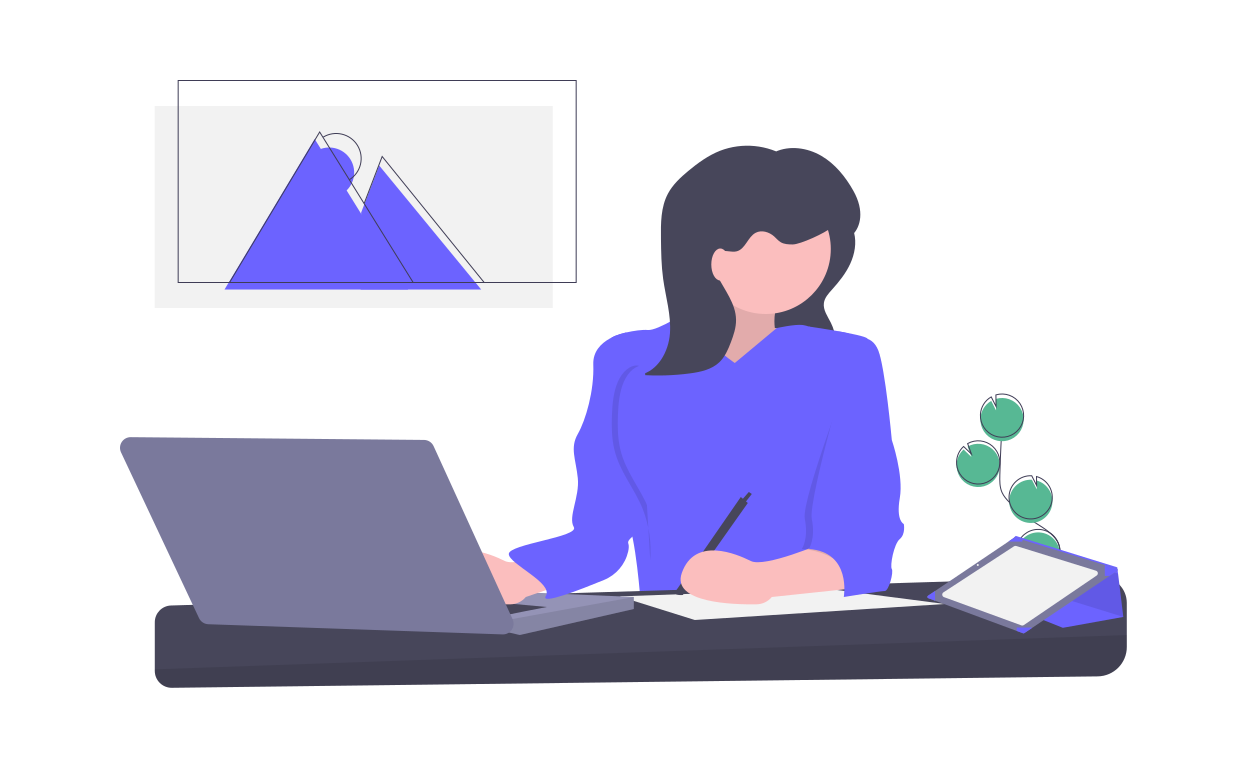
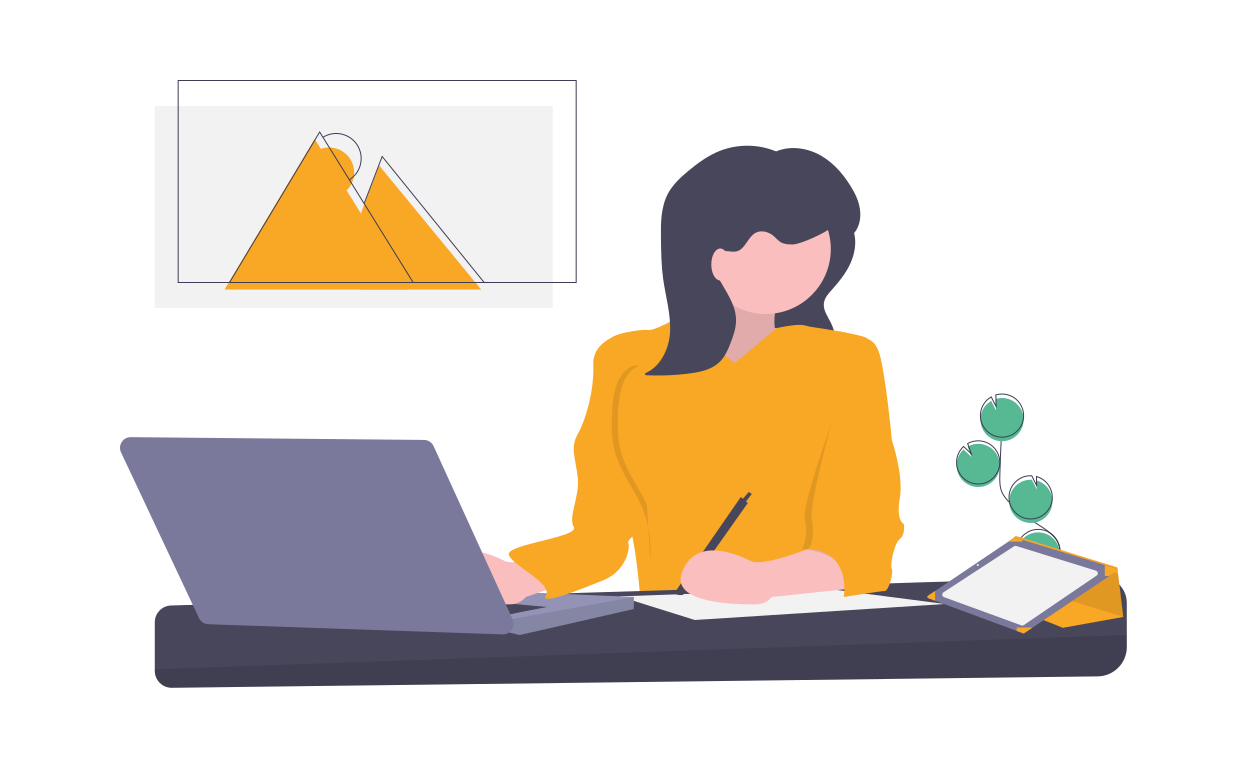
cambio de color amarillo

diff --git a/index.html b/index.html
@@ -12,30 +12,30 @@
 <body>
   <header>
     <!-- INICIA NAVEGADOR -->
-    <nav class="navbar navbar-expand-lg navbar-light style="background-color: #fff;"">
-      <a class="navbar-brand ml-2 bg-primary text-white" href="#">FREE|LANCE.</a>
+    <nav class="navbar navbar-expand-lg navbar-light" style="background-color: #fff;"">
+      <a class="navbar-brand ml-2 text-white d-flex d-inline" href="#"><h1 class="text-dark rayita">InnovationDesign.</h1></a>
       <button class="navbar-toggler" type="button" data-toggle="collapse" data-target="#navbarSupportedContent" aria-controls="navbarSupportedContent" aria-expanded="false" aria-label="Toggle navigation">
       <span class="navbar-toggler-icon"></span>
       </button>
         <div class="collapse navbar-collapse" id="navbarSupportedContent">
           <ul class="navbar-nav ml-auto">
             <li class="nav-item active">
-              <a class="nav-link text-info" href="#">Inicio <span class="sr-only">(current)</span></a>
+              <a class="nav-link text-warning" href="#">Inicio <span class="sr-only">(current)</span></a>
             </li>
             <li class="nav-item">
-              <a class="nav-link text-info" href="#">Servicios</a>
+              <a class="nav-link text-warning" href="#">Servicios</a>
             </li>
             <li class="nav-item">
-              <a class="nav-link text-info" href="#">¿Qué es Freelancers?</a>
+              <a class="nav-link text-warning" href="#">¿Qué es InnovationDesign?</a>
             </li>
             <li class="nav-item">
-              <a class="nav-link text-info" href="#">Experiencia</a>
+              <a class="nav-link text-warning" href="#">Experiencia</a>
             </li>
             <li class="nav-item">
-              <a class="nav-link text-info" href="#">FAQ</a>
+              <a class="nav-link text-warning" href="#">FAQ</a>
             </li>
             <li class="nav-item">
-              <a class="nav-link text-info" href="#">Contacto</a>
+              <a class="nav-link text-warning" href="#">Contacto</a>
             </li>
           </ul>
         </div>
@@ -54,7 +54,7 @@
           <p class="col-5">
             It uses utility classes for typography and spacing to space content out within the larger container.
           </p>
-          <a class="btn btn-primary btn-lg col-3" href="#" role="button">
+          <a class="btn btn-warning btn-lg col-3" href="#" role="button">
             Comencemos a Diseñar!
           </a>
   </div>

diff --git a/style.css b/style.css
@@ -4,6 +4,10 @@
   padding: 10px;
 }
 
+.rayita{
+  text-decoration: underline;
+}
+
 
 
 
